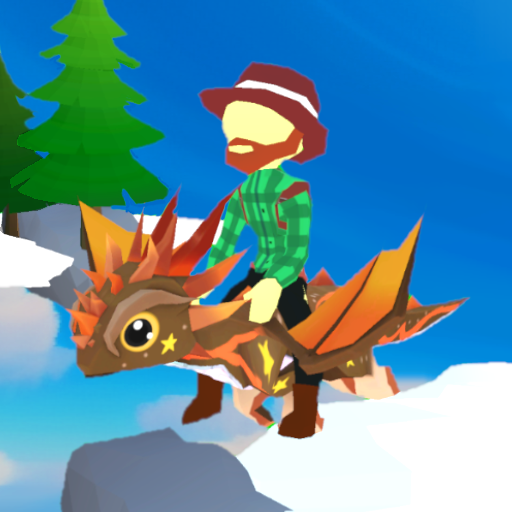
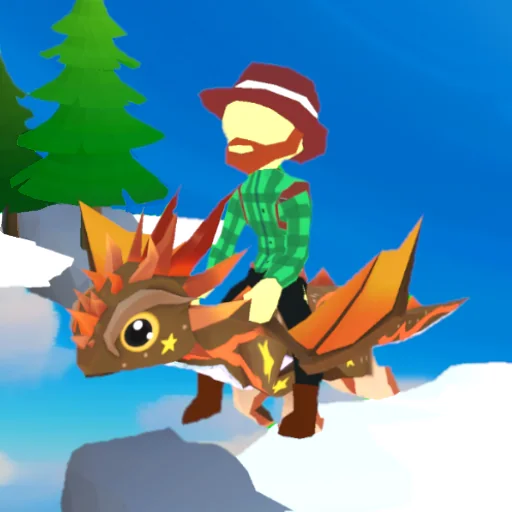
perf: compress portfolio image assets

diff --git a/src/data/portfolio.ts b/src/data/portfolio.ts
@@ -57,7 +57,7 @@ export const projects: Project[] = [
     year: '2022',
     genre: 'Tactical Shooter',
     platforms: ['Android'],
-    imageUrl: '/images/projects/heisters.png',
+    imageUrl: '/images/projects/heisters.webp',
     link: 'https://play.google.com/store/apps/details?id=com.uniXcorp.Heisters',
     linkKind: 'play',
     featured: true,
@@ -67,9 +67,9 @@ export const projects: Project[] = [
       'Built core gameplay and third-party services, then managed delivery across programming, art, and design tasks.',
     tags: ['Unity', 'Gameplay', 'IAP', 'Analytics'],
     gallery: [
-      { src: '/images/projects/gallery/heisters-01.jpg', alt: 'Heisters combat gameplay during a base raid' },
-      { src: '/images/projects/gallery/heisters-02.jpg', alt: 'Heisters enemy selection screen before a raid' },
-      { src: '/images/projects/gallery/heisters-03.jpg', alt: 'Heisters crew and weapon management screen' },
+      { src: '/images/projects/gallery/heisters-01.webp', alt: 'Heisters combat gameplay during a base raid' },
+      { src: '/images/projects/gallery/heisters-02.webp', alt: 'Heisters enemy selection screen before a raid' },
+      { src: '/images/projects/gallery/heisters-03.webp', alt: 'Heisters crew and weapon management screen' },
     ],
   },
   {
@@ -77,7 +77,7 @@ export const projects: Project[] = [
     year: '2025',
     genre: 'Life Simulation',
     platforms: ['Android'],
-    imageUrl: '/images/projects/ojol-life-food-delivery-game.png',
+    imageUrl: '/images/projects/ojol-life-food-delivery-game.webp',
     link: 'https://play.google.com/store/apps/details?id=com.maleo.ojollife',
     linkKind: 'play',
     featured: true,
@@ -87,9 +87,9 @@ export const projects: Project[] = [
       'Developed main gameplay systems including orders, customization, fuel, stamina, and the first game design.',
     tags: ['Unity', 'Simulation', 'Systems', 'Mobile'],
     gallery: [
-      { src: '/images/projects/gallery/ojol-life-01.jpg', alt: 'Ojol Life riders exploring the city together' },
-      { src: '/images/projects/gallery/ojol-life-02.jpg', alt: 'Ojol Life passenger interaction and city traffic gameplay' },
-      { src: '/images/projects/gallery/ojol-life-03.jpg', alt: 'Ojol Life delivery and vehicle variety' },
+      { src: '/images/projects/gallery/ojol-life-01.webp', alt: 'Ojol Life riders exploring the city together' },
+      { src: '/images/projects/gallery/ojol-life-02.webp', alt: 'Ojol Life passenger interaction and city traffic gameplay' },
+      { src: '/images/projects/gallery/ojol-life-03.webp', alt: 'Ojol Life delivery and vehicle variety' },
     ],
   },
   {
@@ -108,9 +108,9 @@ export const projects: Project[] = [
       'Created core gameplay and third-party services while managing tasks for the small team.',
     tags: ['Unity', 'Management', 'Ads', 'IAP'],
     gallery: [
-      { src: '/images/projects/gallery/dragon-ranch-01.jpg', alt: 'Dragon Ranch farm overview and character progression' },
-      { src: '/images/projects/gallery/dragon-ranch-02.jpg', alt: 'Dragon Ranch crop fields and dragon collection objective' },
-      { src: '/images/projects/gallery/dragon-ranch-03.jpg', alt: 'Dragon Ranch crop building and dragon care gameplay' },
+      { src: '/images/projects/gallery/dragon-ranch-01.webp', alt: 'Dragon Ranch farm overview and character progression' },
+      { src: '/images/projects/gallery/dragon-ranch-02.webp', alt: 'Dragon Ranch crop fields and dragon collection objective' },
+      { src: '/images/projects/gallery/dragon-ranch-03.webp', alt: 'Dragon Ranch crop building and dragon care gameplay' },
     ],
   },
   {
@@ -118,7 +118,7 @@ export const projects: Project[] = [
     year: '2024',
     genre: 'Casual Puzzle',
     platforms: ['Android'],
-    imageUrl: '/images/projects/catmelon-kitty-merge-fever.png',
+    imageUrl: '/images/projects/catmelon-kitty-merge-fever.webp',
     link: 'https://drive.google.com/file/d/153Zfy7d8Ltkg2QTY1tBVhmjJkbO0VHes/view?usp=drive_link',
     linkKind: 'drive',
     featured: true,
@@ -127,9 +127,9 @@ export const projects: Project[] = [
     role: 'Handled most development work, especially programming and gameplay mechanics.',
     tags: ['Unity', 'Puzzle', 'Casual', 'Mobile'],
     gallery: [
-      { src: '/images/projects/gallery/catmelon-01.jpg', alt: 'Catmelon home screen with the cat collection artwork' },
-      { src: '/images/projects/gallery/catmelon-02.jpg', alt: 'Catmelon merge board at the start of a game' },
-      { src: '/images/projects/gallery/catmelon-03.jpg', alt: 'Catmelon active merge puzzle with several cats in the container' },
+      { src: '/images/projects/gallery/catmelon-01.webp', alt: 'Catmelon home screen with the cat collection artwork' },
+      { src: '/images/projects/gallery/catmelon-02.webp', alt: 'Catmelon merge board at the start of a game' },
+      { src: '/images/projects/gallery/catmelon-03.webp', alt: 'Catmelon active merge puzzle with several cats in the container' },
     ],
   },
   {
@@ -137,7 +137,7 @@ export const projects: Project[] = [
     year: '2024',
     genre: 'Educational Simulation',
     platforms: ['Web'],
-    imageUrl: '/images/projects/taxland.png',
+    imageUrl: '/images/projects/taxland.webp',
     link: 'https://drive.google.com/file/d/1ySA0Bt6hdgTqGVZXnn4VMBDXJfqzMsut/view?usp=sharing',
     linkKind: 'drive',
     description:
@@ -173,9 +173,9 @@ export const projects: Project[] = [
     tags: ['Unity', 'iOS', 'Android', 'Physics', 'Arcade'],
     note: 'Formerly released on iOS; an archived Android build is available for download.',
     gallery: [
-      { src: '/images/projects/gallery/swoosh-ball-01.jpg', alt: 'Swoosh Ball home screen on the outdoor basketball court' },
-      { src: '/images/projects/gallery/swoosh-ball-02.jpg', alt: 'Swoosh Ball avatar customization screen' },
-      { src: '/images/projects/gallery/swoosh-ball-03.jpg', alt: 'Swoosh Ball swipe-shot gameplay at the hoop' },
+      { src: '/images/projects/gallery/swoosh-ball-01.webp', alt: 'Swoosh Ball home screen on the outdoor basketball court' },
+      { src: '/images/projects/gallery/swoosh-ball-02.webp', alt: 'Swoosh Ball avatar customization screen' },
+      { src: '/images/projects/gallery/swoosh-ball-03.webp', alt: 'Swoosh Ball swipe-shot gameplay at the hoop' },
     ],
   },
   {
@@ -193,9 +193,9 @@ export const projects: Project[] = [
     tags: ['Unity', '3D', 'Platformer', 'iOS', 'Android'],
     note: 'Formerly released on iOS; an archived Android build is available for download.',
     gallery: [
-      { src: '/images/projects/gallery/jump-and-boom-01.jpg', alt: 'Jump and Boom game setup with difficulty and environment options' },
-      { src: '/images/projects/gallery/jump-and-boom-02.jpg', alt: 'Jump and Boom avatar customization screen' },
-      { src: '/images/projects/gallery/jump-and-boom-03.jpg', alt: 'Jump and Boom third-person gameplay in the space arena' },
+      { src: '/images/projects/gallery/jump-and-boom-01.webp', alt: 'Jump and Boom game setup with difficulty and environment options' },
+      { src: '/images/projects/gallery/jump-and-boom-02.webp', alt: 'Jump and Boom avatar customization screen' },
+      { src: '/images/projects/gallery/jump-and-boom-03.webp', alt: 'Jump and Boom third-person gameplay in the space arena' },
     ],
   },
   {
@@ -213,9 +213,9 @@ export const projects: Project[] = [
     tags: ['Unity', 'Puzzle', 'Leaderboard', 'iOS', 'Android'],
     note: 'Formerly released on iOS; an archived Android build is available for download.',
     gallery: [
-      { src: '/images/projects/gallery/puzzling-polygons-01.jpg', alt: 'Puzzling Polygons title and player profile screen' },
-      { src: '/images/projects/gallery/puzzling-polygons-02.jpg', alt: 'Puzzling Polygons beginner level selection grid' },
-      { src: '/images/projects/gallery/puzzling-polygons-03.jpg', alt: 'Puzzling Polygons timed hexagon puzzle gameplay' },
+      { src: '/images/projects/gallery/puzzling-polygons-01.webp', alt: 'Puzzling Polygons title and player profile screen' },
+      { src: '/images/projects/gallery/puzzling-polygons-02.webp', alt: 'Puzzling Polygons beginner level selection grid' },
+      { src: '/images/projects/gallery/puzzling-polygons-03.webp', alt: 'Puzzling Polygons timed hexagon puzzle gameplay' },
     ],
   },
   {
@@ -223,7 +223,7 @@ export const projects: Project[] = [
     year: '2024',
     genre: 'Casual Runner',
     platforms: ['Android'],
-    imageUrl: '/images/projects/downtown-rush.png',
+    imageUrl: '/images/projects/downtown-rush.webp',
     link: 'https://drive.google.com/file/d/1urNKIZpdSL-N0IwHgRUDV0RcRLXKxPBW/view?usp=sharing',
     linkKind: 'drive',
     description:
@@ -231,9 +231,9 @@ export const projects: Project[] = [
     role: 'Handled design, programming, gameplay mechanics, and implementation polish.',
     tags: ['Unity', 'Runner', 'Mobile', 'Casual'],
     gallery: [
-      { src: '/images/projects/gallery/downtown-rush-01.jpg', alt: 'Downtown Rush home screen on a city street' },
-      { src: '/images/projects/gallery/downtown-rush-02.jpg', alt: 'Downtown Rush character running along the center lane' },
-      { src: '/images/projects/gallery/downtown-rush-03.jpg', alt: 'Downtown Rush score screen with city obstacles in view' },
+      { src: '/images/projects/gallery/downtown-rush-01.webp', alt: 'Downtown Rush home screen on a city street' },
+      { src: '/images/projects/gallery/downtown-rush-02.webp', alt: 'Downtown Rush character running along the center lane' },
+      { src: '/images/projects/gallery/downtown-rush-03.webp', alt: 'Downtown Rush score screen with city obstacles in view' },
     ],
   },
   {
@@ -241,7 +241,7 @@ export const projects: Project[] = [
     year: '2024',
     genre: 'Casual 3D',
     platforms: ['Android'],
-    imageUrl: '/images/projects/collecto-frenzy-3d.png',
+    imageUrl: '/images/projects/collecto-frenzy-3d.webp',
     link: 'https://drive.google.com/file/d/1uwHRye2zn1skRkvnuB63mj4IHYvobxzN/view?usp=drive_link',
     linkKind: 'drive',
     featured: true,
@@ -250,9 +250,9 @@ export const projects: Project[] = [
     role: 'Handled game design, programming, and gameplay mechanics from prototype through delivery.',
     tags: ['Unity', '3D', 'Casual', 'Systems'],
     gallery: [
-      { src: '/images/projects/gallery/collecto-frenzy-3d-01.jpg', alt: 'Collecto Frenzy 3D home screen' },
-      { src: '/images/projects/gallery/collecto-frenzy-3d-02.jpg', alt: 'Collecto Frenzy 3D level with target objects and power-ups' },
-      { src: '/images/projects/gallery/collecto-frenzy-3d-03.jpg', alt: 'Collecto Frenzy 3D level result screen' },
+      { src: '/images/projects/gallery/collecto-frenzy-3d-01.webp', alt: 'Collecto Frenzy 3D home screen' },
+      { src: '/images/projects/gallery/collecto-frenzy-3d-02.webp', alt: 'Collecto Frenzy 3D level with target objects and power-ups' },
+      { src: '/images/projects/gallery/collecto-frenzy-3d-03.webp', alt: 'Collecto Frenzy 3D level result screen' },
     ],
   },
   {
@@ -260,7 +260,7 @@ export const projects: Project[] = [
     year: '2024',
     genre: 'Casual Arcade',
     platforms: ['Android'],
-    imageUrl: '/images/projects/brickball-mania.png',
+    imageUrl: '/images/projects/brickball-mania.webp',
     link: 'https://drive.google.com/file/d/1S4ZOBXIomyNhVQOpoFm5W4yPCZiFJdeF/view?usp=sharing',
     linkKind: 'drive',
     description:
@@ -268,9 +268,9 @@ export const projects: Project[] = [
     role: 'Handled all aspects of development, including gameplay design, programming, and mechanics.',
     tags: ['Unity', 'Arcade', 'Mobile', 'Casual'],
     gallery: [
-      { src: '/images/projects/gallery/brickball-mania-01.jpg', alt: 'Brickball Mania illustrated level map' },
-      { src: '/images/projects/gallery/brickball-mania-02.jpg', alt: 'Brickball Mania level one block layout' },
-      { src: '/images/projects/gallery/brickball-mania-03.jpg', alt: 'Brickball Mania balls ricocheting between numbered blocks' },
+      { src: '/images/projects/gallery/brickball-mania-01.webp', alt: 'Brickball Mania illustrated level map' },
+      { src: '/images/projects/gallery/brickball-mania-02.webp', alt: 'Brickball Mania level one block layout' },
+      { src: '/images/projects/gallery/brickball-mania-03.webp', alt: 'Brickball Mania balls ricocheting between numbered blocks' },
     ],
   },
   {
@@ -278,7 +278,7 @@ export const projects: Project[] = [
     year: '2023',
     genre: 'Web3 Virtual World',
     platforms: ['Web'],
-    imageUrl: '/images/projects/goya-universe.jpg',
+    imageUrl: '/images/projects/goya-universe.webp',
     link: 'https://drive.google.com/file/d/1QaVAEBM0Lh84UhaIfu1FDI5vGrKkkuRG/view?usp=drive_link',
     linkKind: 'drive',
     featured: true,
@@ -319,7 +319,7 @@ export const projects: Project[] = [
     year: '2021',
     genre: 'Educational Simulation',
     platforms: ['PC', 'Web'],
-    imageUrl: '/images/projects/taxsim.png',
+    imageUrl: '/images/projects/taxsim.webp',
     link: 'https://amin-hanif.itch.io/taxsim',
     linkKind: 'itch',
     description:
@@ -333,9 +333,9 @@ export const projects: Project[] = [
         kind: 'video',
         alt: 'TaxSim animated gameplay showing the tax office simulation',
       },
-      { src: '/images/projects/gallery/taxsim-01.png', alt: 'TaxSim dialogue with a visitor at the tax service counter' },
-      { src: '/images/projects/gallery/taxsim-02.png', alt: 'TaxSim word-arrangement learning mini game' },
-      { src: '/images/projects/gallery/taxsim-03.png', alt: 'TaxSim tax payment completion at the service desk' },
+      { src: '/images/projects/gallery/taxsim-01.webp', alt: 'TaxSim dialogue with a visitor at the tax service counter' },
+      { src: '/images/projects/gallery/taxsim-02.webp', alt: 'TaxSim word-arrangement learning mini game' },
+      { src: '/images/projects/gallery/taxsim-03.webp', alt: 'TaxSim tax payment completion at the service desk' },
     ],
   },
   {
@@ -343,7 +343,7 @@ export const projects: Project[] = [
     year: '2021',
     genre: 'Adventure RPG',
     platforms: ['PC', 'Web'],
-    imageUrl: '/images/projects/adventure-of-hanacaraka.png',
+    imageUrl: '/images/projects/adventure-of-hanacaraka.webp',
     link: 'https://amin-hanif.itch.io/aoh',
     linkKind: 'itch',
     description:
@@ -357,9 +357,9 @@ export const projects: Project[] = [
         kind: 'video',
         alt: 'Adventure of Hanacaraka animated combat gameplay',
       },
-      { src: '/images/projects/gallery/adventure-of-hanacaraka-01.jpg', alt: 'Adventure of Hanacaraka title screen' },
-      { src: '/images/projects/gallery/adventure-of-hanacaraka-02.jpg', alt: 'Hanacaraka letter-learning interface and character attributes' },
-      { src: '/images/projects/gallery/adventure-of-hanacaraka-03.jpg', alt: 'Adventure of Hanacaraka world map and character preparation screen' },
+      { src: '/images/projects/gallery/adventure-of-hanacaraka-01.webp', alt: 'Adventure of Hanacaraka title screen' },
+      { src: '/images/projects/gallery/adventure-of-hanacaraka-02.webp', alt: 'Hanacaraka letter-learning interface and character attributes' },
+      { src: '/images/projects/gallery/adventure-of-hanacaraka-03.webp', alt: 'Adventure of Hanacaraka world map and character preparation screen' },
     ],
   },
   {
@@ -367,7 +367,7 @@ export const projects: Project[] = [
     year: '2022',
     genre: 'Simulation',
     platforms: ['PC'],
-    imageUrl: '/images/projects/yudi-si-anak-magang-housekeeping.png',
+    imageUrl: '/images/projects/yudi-si-anak-magang-housekeeping.webp',
     link: 'https://drive.google.com/file/d/1d1KUP7KZ8Qd6PSE8ExllBzg7LhZ3IUEn/view?usp=share_link',
     linkKind: 'drive',
     description:
@@ -375,9 +375,9 @@ export const projects: Project[] = [
     role: 'Created game design, art, story, gameplay, and dialogue database.',
     tags: ['Simulation', 'Education', 'Narrative', 'Award'],
     gallery: [
-      { src: '/images/projects/gallery/yudi-housekeeping-01.jpg', alt: 'Yudi si Anak Magang Housekeeping title screen' },
-      { src: '/images/projects/gallery/yudi-housekeeping-02.jpg', alt: 'Hotel housekeeping tutorial dialogue with the manager' },
-      { src: '/images/projects/gallery/yudi-housekeeping-03.jpg', alt: 'Yudi navigating the hotel during a Day 2 housekeeping objective' },
+      { src: '/images/projects/gallery/yudi-housekeeping-01.webp', alt: 'Yudi si Anak Magang Housekeeping title screen' },
+      { src: '/images/projects/gallery/yudi-housekeeping-02.webp', alt: 'Hotel housekeeping tutorial dialogue with the manager' },
+      { src: '/images/projects/gallery/yudi-housekeeping-03.webp', alt: 'Yudi navigating the hotel during a Day 2 housekeeping objective' },
     ],
   },
   {
@@ -385,7 +385,7 @@ export const projects: Project[] = [
     year: '2022',
     genre: 'Multiplayer Platformer',
     platforms: ['Android', 'PC', 'Web'],
-    imageUrl: '/images/projects/sleep-gravity.png',
+    imageUrl: '/images/projects/sleep-gravity.webp',
     link: 'https://unixcorp.itch.io/sleep-gravity',
     linkKind: 'itch',
     description:
@@ -393,9 +393,9 @@ export const projects: Project[] = [
     role: 'Created game design, art, core gameplay, and Photon networking.',
     tags: ['Multiplayer', 'Photon', 'Platformer', 'Cards'],
     gallery: [
-      { src: '/images/projects/gallery/sleep-gravity-01.jpg', alt: 'Sleep Gravity card selection screen' },
-      { src: '/images/projects/gallery/sleep-gravity-02.jpg', alt: 'Sleep Gravity match setup and map selection screen' },
-      { src: '/images/projects/gallery/sleep-gravity-03.jpg', alt: 'Sleep Gravity side-scrolling multiplayer gameplay' },
+      { src: '/images/projects/gallery/sleep-gravity-01.webp', alt: 'Sleep Gravity card selection screen' },
+      { src: '/images/projects/gallery/sleep-gravity-02.webp', alt: 'Sleep Gravity match setup and map selection screen' },
+      { src: '/images/projects/gallery/sleep-gravity-03.webp', alt: 'Sleep Gravity side-scrolling multiplayer gameplay' },
     ],
   },
   {
@@ -403,7 +403,7 @@ export const projects: Project[] = [
     year: '2020',
     genre: 'Simulation',
     platforms: ['PC'],
-    imageUrl: '/images/projects/life-of-a-dropshipper.png',
+    imageUrl: '/images/projects/life-of-a-dropshipper.webp',
     link: 'https://drive.google.com/drive/folders/1dbIn3c8PiSNC_FVIzIU-zGDvRcEW0z38?usp=sharing',
     linkKind: 'drive',
     description:
@@ -424,7 +424,7 @@ export const projects: Project[] = [
     year: '2020',
     genre: 'Roguelite',
     platforms: ['Android', 'PC'],
-    imageUrl: '/images/projects/mysticalipse-dungeon.png',
+    imageUrl: '/images/projects/mysticalipse-dungeon.webp',
     link: 'https://drive.google.com/drive/folders/1XDNVrY3BjNq0WMhC1UcTEqSd3ARiN7aV?usp=share_link',
     linkKind: 'drive',
     description:
@@ -445,7 +445,7 @@ export const projects: Project[] = [
     year: '2020',
     genre: 'Survival Horror',
     platforms: ['PC', 'Web'],
-    imageUrl: '/images/projects/isolated-forest.png',
+    imageUrl: '/images/projects/isolated-forest.webp',
     link: 'https://amin-hanif.itch.io/isolated-forest',
     linkKind: 'itch',
     description:
@@ -459,7 +459,7 @@ export const projects: Project[] = [
         kind: 'video',
         alt: 'Isolated Forest animated crafting and survival gameplay',
       },
-      { src: '/images/projects/gallery/isolated-forest-01.jpg', alt: 'Isolated Forest top-down exploration with the survival HUD' },
+      { src: '/images/projects/gallery/isolated-forest-01.webp', alt: 'Isolated Forest top-down exploration with the survival HUD' },
     ],
   },
   {
@@ -467,7 +467,7 @@ export const projects: Project[] = [
     year: '2020',
     genre: 'Multiplayer Platformer',
     platforms: ['Android', 'PC', 'Web'],
-    imageUrl: '/images/projects/tag-runner.png',
+    imageUrl: '/images/projects/tag-runner.webp',
     link: 'https://play.google.com/store/apps/details?id=com.unixcorp.tagrunner',
     linkKind: 'play',
     description:
@@ -476,9 +476,9 @@ export const projects: Project[] = [
     tags: ['Multiplayer', 'Photon', 'Platformer', 'Mobile'],
     note: 'Legacy Play Store link restored; APK update pending if the listing is unavailable.',
     gallery: [
-      { src: '/images/projects/gallery/tag-runner-01.jpg', alt: 'Tag Runner multiplayer lobby' },
-      { src: '/images/projects/gallery/tag-runner-02.jpg', alt: 'Tag Runner matchmaking and room settings' },
-      { src: '/images/projects/gallery/tag-runner-03.jpg', alt: 'Tag Runner platforming arena with mobile controls' },
+      { src: '/images/projects/gallery/tag-runner-01.webp', alt: 'Tag Runner multiplayer lobby' },
+      { src: '/images/projects/gallery/tag-runner-02.webp', alt: 'Tag Runner matchmaking and room settings' },
+      { src: '/images/projects/gallery/tag-runner-03.webp', alt: 'Tag Runner platforming arena with mobile controls' },
     ],
   },
   {
@@ -486,7 +486,7 @@ export const projects: Project[] = [
     year: '2020',
     genre: 'Educational Casual',
     platforms: ['PC', 'Web'],
-    imageUrl: '/images/projects/the-covid-hero.png',
+    imageUrl: '/images/projects/the-covid-hero.webp',
     link: 'https://amin-hanif.itch.io/the-covid-hero',
     linkKind: 'itch',
     description:
@@ -500,9 +500,9 @@ export const projects: Project[] = [
         kind: 'video',
         alt: 'The Covid Hero animated one-touch mobile gameplay',
       },
-      { src: '/images/projects/gallery/the-covid-hero-01.jpg', alt: 'The Covid Hero title screen in a mobile phone frame' },
-      { src: '/images/projects/gallery/the-covid-hero-02.jpg', alt: 'The Covid Hero one-touch gameplay screen' },
-      { src: '/images/projects/gallery/the-covid-hero-03.jpg', alt: 'The Covid Hero leaderboard screen' },
+      { src: '/images/projects/gallery/the-covid-hero-01.webp', alt: 'The Covid Hero title screen in a mobile phone frame' },
+      { src: '/images/projects/gallery/the-covid-hero-02.webp', alt: 'The Covid Hero one-touch gameplay screen' },
+      { src: '/images/projects/gallery/the-covid-hero-03.webp', alt: 'The Covid Hero leaderboard screen' },
     ],
   },
   {
@@ -510,7 +510,7 @@ export const projects: Project[] = [
     year: '2018',
     genre: 'Cultural Simulation',
     platforms: ['Android'],
-    imageUrl: '/images/projects/hide-n-seek-nusantara.png',
+    imageUrl: '/images/projects/hide-n-seek-nusantara.webp',
     link: 'https://play.google.com/store/apps/details?id=com.unixcorp.hidenseeknusantara',
     linkKind: 'play',
     description:
@@ -616,4 +616,3 @@ export const awards = [
   '2nd Place - Cisewu & Timun Mas, SEAMEO School Network Game Development Online Training 2017',
   '3rd Place - Pangeran Diponegoro, GEMAS Digital Game Competition 2016',
 ];
-

diff --git a/scripts/generate-og-image.py b/scripts/generate-og-image.py
@@ -210,10 +210,10 @@ def build():
         stat_x += stat_width + stat_gap
 
     projects = [
-        ROOT / "public" / "images" / "projects" / "heisters.png",
-        ROOT / "public" / "images" / "projects" / "ojol-life-food-delivery-game.png",
+        ROOT / "public" / "images" / "projects" / "heisters.webp",
+        ROOT / "public" / "images" / "projects" / "ojol-life-food-delivery-game.webp",
         ROOT / "public" / "images" / "projects" / "dragon-ranch.webp",
-        ROOT / "public" / "images" / "projects" / "catmelon-kitty-merge-fever.png",
+        ROOT / "public" / "images" / "projects" / "catmelon-kitty-merge-fever.webp",
     ]
     tile_size = 128
     grid_gap_x = 24